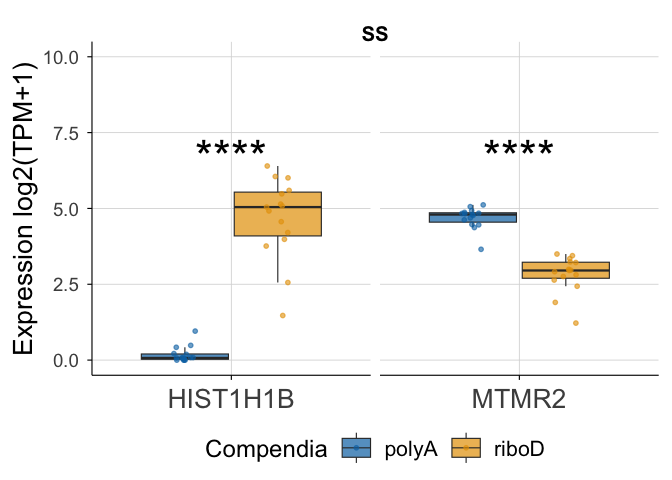
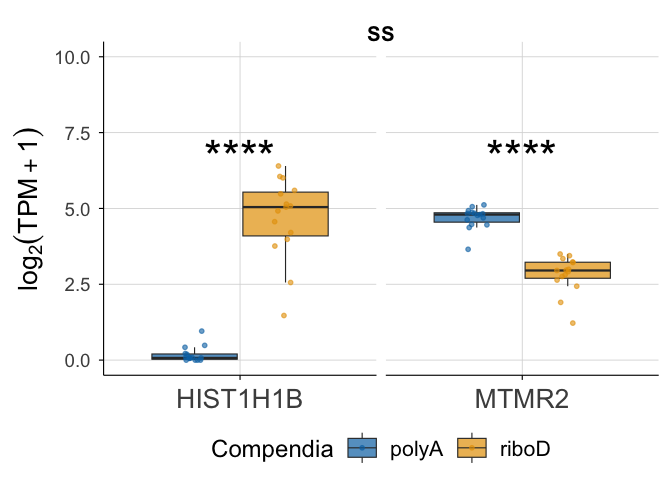
fig1E/S4 log2(TPM+1) subscript update

diff --git a/Fig_1/Fig1E_F/Fig1E_F.md b/Fig_1/Fig1E_F/Fig1E_F.md
@@ -1208,9 +1208,9 @@ Fig1E_SS <- map(diseases, function(d) {
     facet_wrap(~ PlotType, ncol = 2, scales = "free_x") +
     labs(
       title = paste(d),
-      x = NULL,
-      y = "Expression log2(TPM+1)"
+      x = NULL
     ) +
+    ylab(bquote(log[2](TPM+1))) +
     color_theme() +
     theme(
       axis.title.y = element_text(size = 20),
@@ -1305,9 +1305,9 @@ Fig1E <- map(diseases, function(d) {
     facet_wrap(~ PlotType, ncol = 2, scales = "free_x") +
     labs(
       title = paste(d),
-      x = NULL,
-      y = "Expression log2(TPM+1)"
+      x = NULL
     ) +
+    ylab(bquote(log[2](TPM+1))) +
     color_theme() +
     theme(
       axis.title.y = element_text(size = 32),
